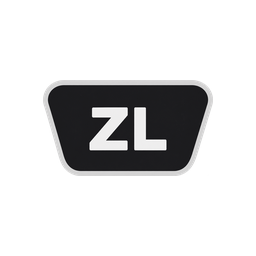
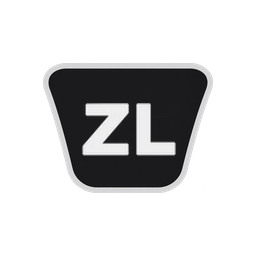
L2・R2・ZL・ZR のトリガーの絵を、LT と同じ本体の色と形にそろえる

Changed region(s): [[0.1562, 0.2188, 0.8438, 0.7812], [0.3125, 0.375, 0.6875, 0.625]]

diff --git a/tools/make_glyph_swap_icons.py b/tools/make_glyph_swap_icons.py
@@ -1,8 +1,9 @@
-# 操作説明のアイコンのうち、中の文字・記号の形がずれている4枚を、形のそろった見本の本体に文字だけ載せ替えて作り直す。
+# 操作説明のアイコンのうち、中の文字・記号の形がずれている・本体の色が合っていない8枚を、形のそろった見本の本体に文字だけ載せ替えて作り直す。
 # 入力: assets/ui/controls/ の trigger_lt.png・stick_left.png・button_b.png（見本の本体）と、
-#       文字の取り出し元4枚（trigger_rt・stick_right・button_x・button_triangle）。
+#       文字の取り出し元8枚（trigger_rt・stick_right・button_x・button_triangle・trigger_l2・trigger_zr・trigger_r2・trigger_zl）。
 #       取り出し元は最初に scratchpad の menu/glyph_src/ へ（無ければ）コピーし、以後はそこから読む。
-# 出力: assets/ui/controls/ の trigger_rt.png・stick_right.png・button_x.png・button_triangle.png（256x256 RGBA、上書き）
+# 出力: assets/ui/controls/ の trigger_rt.png・stick_right.png・button_x.png・button_triangle.png・trigger_l2.png・trigger_zr.png・trigger_r2.png・trigger_zl.png
+#       （256x256 RGBA、上書き）
 # 実行: uv run --with pillow --with numpy python tools/make_glyph_swap_icons.py
 # 見本の本体の内側（暗い画素の連結成分を穴埋めした領域）の文字を消し、取り出し元の文字（アルファ付き）を
 # 見本の文字と同じ高さ・同じ中心に合わせて (242,242,242) で重ねる。
@@ -28,6 +29,10 @@ JOBS = [
     ("stick_right", "stick_left", "stick_right"),
     ("button_x", "button_b", "button_x"),
     ("button_triangle", "button_b", "button_triangle"),
+    ("trigger_l2", "trigger_lt", "trigger_l2"),
+    ("trigger_zr", "trigger_lt", "trigger_zr"),
+    ("trigger_r2", "trigger_lt", "trigger_r2"),
+    ("trigger_zl", "trigger_lt", "trigger_zl"),
 ]
 
 
